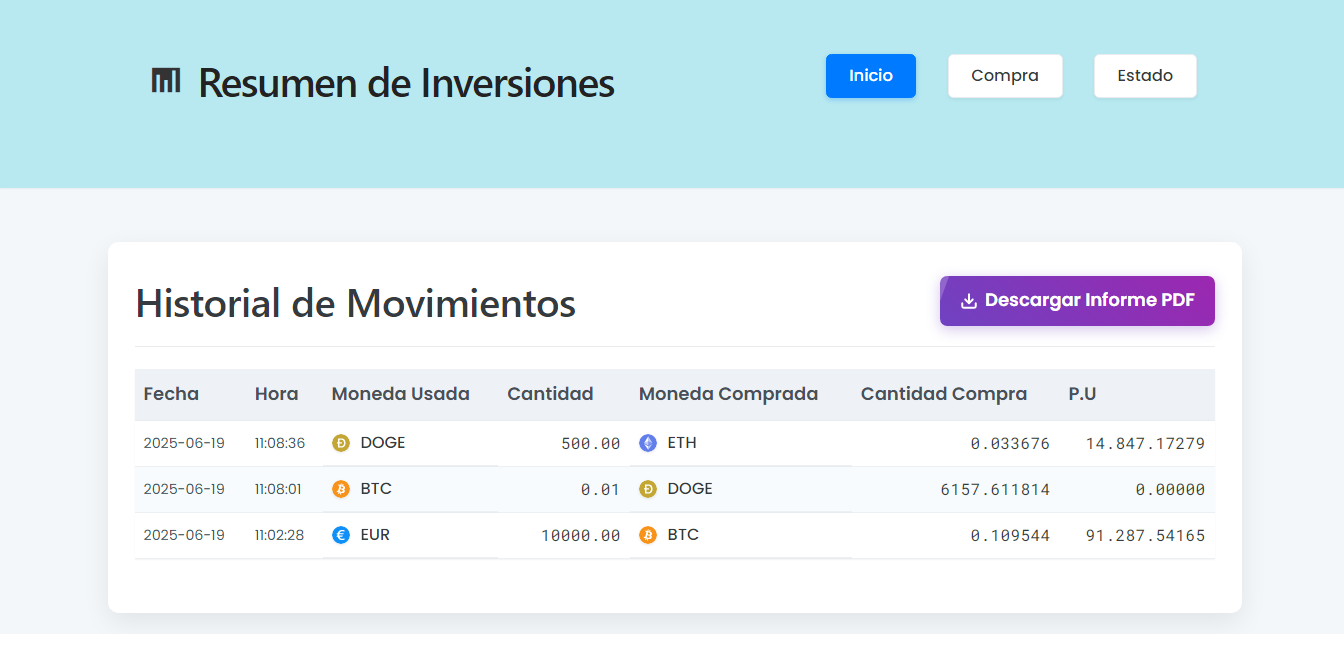
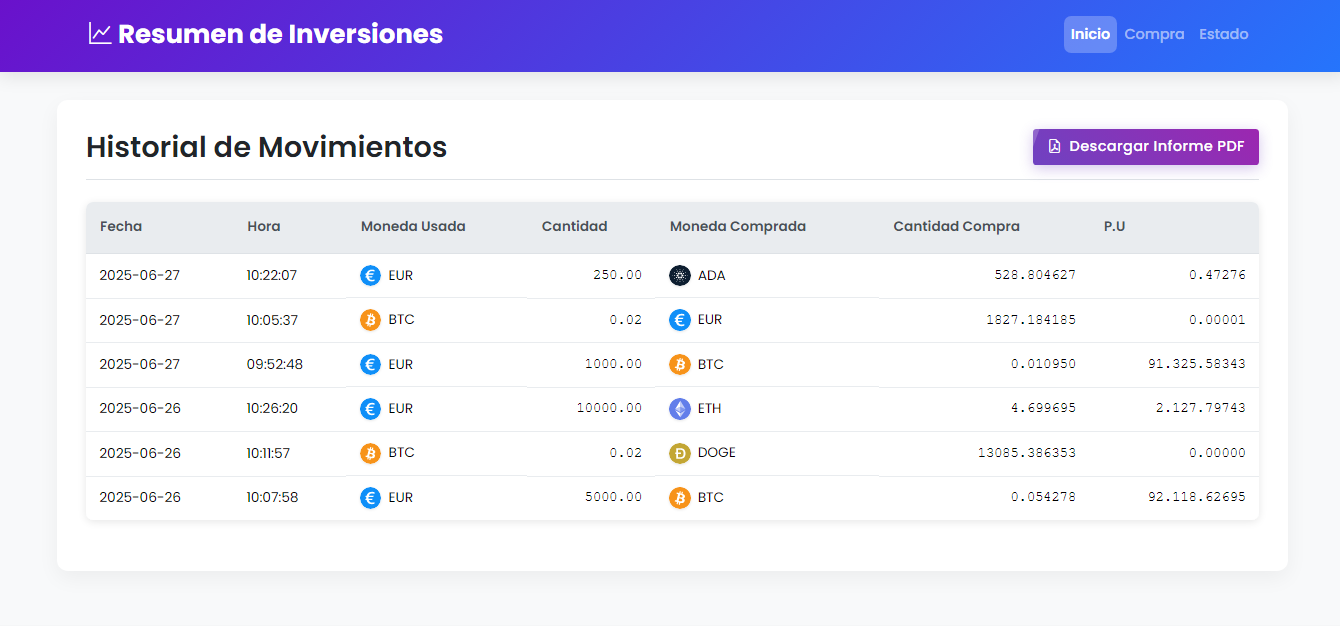
Mejoras visuales

diff --git a/app/templates/status.html b/app/templates/status.html
@@ -6,11 +6,104 @@
         display: grid;
         grid-template-columns: 1fr 1fr;
         gap: 1.5rem;
+        margin-bottom: 2rem;
+    }
+    
+    .chart-container {
+        background: white;
+        border-radius: 8px;
+        box-shadow: 0 2px 4px rgba(0,0,0,0.1);
+        padding: 1rem;
+        display: flex;
+        flex-direction: column;
+        height: 400px; /* Altura fija para mantener consistencia */
+    }
+    
+    .chart-container h3 {
+        margin-top: 0;
+        margin-bottom: 1rem;
+    }
+    
+    .chart-container canvas {
+        width: 100% !important;
+        height: 100% !important;
+        min-height: 300px;
+        flex-grow: 1;
     }
     
     @media (max-width: 768px) {
         .chart-grid {
             grid-template-columns: 1fr;
+        }
+        
+        .chart-container {
+            height: 350px; /* Altura menor en móviles */
+        }
+    }
+
+    .crypto-table {
+        width: 100%;
+        border-collapse: collapse;
+        margin: 1rem 0;
+        font-size: 0.9rem;
+        box-shadow: 0 2px 4px rgba(0,0,0,0.05);
+    }
+    
+    .crypto-table th {
+        background-color: #f8f9fa;
+        padding: 12px 15px;
+        font-weight: 600;
+        text-transform: uppercase;
+        font-size: 0.8rem;
+        letter-spacing: 0.5px;
+        color: #6c757d;
+    }
+    
+    .crypto-table td {
+        padding: 12px 15px;
+        border-bottom: 1px solid #e9ecef;
+        vertical-align: middle;
+    }
+    
+    .crypto-table tr:last-child td {
+        border-bottom: none;
+    }
+    
+    .crypto-table tr:hover {
+        background-color: #f8f9fa;
+    }
+    
+    .crypto-name {
+        display: flex;
+        align-items: center;
+        gap: 10px;
+    }
+    
+    .crypto-icon {
+        width: 24px;
+        height: 24px;
+    }
+    
+    .text-left {
+        text-align: left;
+    }
+    
+    .text-right {
+        text-align: right;
+    }
+    
+    .table-responsive {
+        overflow-x: auto;
+    }
+    
+    @media (max-width: 768px) {
+        .crypto-table {
+            font-size: 0.8rem;
+        }
+        
+        .crypto-table th, 
+        .crypto-table td {
+            padding: 8px 10px;
         }
     }
 </style>
@@ -74,30 +167,57 @@
     </div>
 
     <!-- Sección de detalle de criptomonedas -->
-    <h3 class="section-title">Detalle de Criptomonedas:</h3>
-    <div class="crypto-detail-list">
-        {% for m, info in cripto_valores.items() %}
-            <div class="crypto-item">
-                <div class="crypto-name">
+<h3 class="section-title">Detalle de Criptomonedas</h3>
+<div class="table-responsive">
+    <table class="crypto-table">
+        <thead>
+            <tr>
+                <th class="text-left">Criptomoneda</th>
+                <th class="text-right">Cantidad</th>
+                <th class="text-right">Precio Unitario</th>
+                <th class="text-right">Valor Total</th>
+            </tr>
+        </thead>
+        <tbody>
+            {% for m, info in cripto_valores.items() %}
+            <tr>
+                <td class="text-left crypto-name">
                     {% if m|lower in icon_map %}
-                        <img src="{{ icon_base }}{{ icon_map[m|lower] }}" alt="{{ m }} icon" class="crypto-icon">
+                    <img src="{{ icon_base }}{{ icon_map[m|lower] }}" alt="{{ m }} icon" class="crypto-icon">
                     {% endif %}
                     {{ m }}
-                </div>
-                <div class="crypto-stats">
-                    <span class="crypto-balance">{{ '{:,.6f}'.format(info.saldo) | replace(',', '_') | replace('.', ',') | replace('_', '.') }}</span>
-                    <span class="text-muted">unidades</span>
-                    <span class="crypto-price">@ {{ '{:,.2f}'.format(info.tasa) | replace(',', '_') | replace('.', ',') | replace('_', '.') }} EUR</span>
-                    <span class="crypto-total">{{ '{:,.2f}'.format(info.euros) | replace(',', '_') | replace('.', ',') | replace('_', '.') }} EUR</span>
-                </div>
-            </div>
-        {% endfor %}
-    </div>
+                </td>
+                <td class="text-right">{{ '{:,.6f}'.format(info.saldo) | replace(',', '_') | replace('.', ',') | replace('_', '.') }}</td>
+                <td class="text-right">{{ '{:,.2f}'.format(info.tasa) | replace(',', '_') | replace('.', ',') | replace('_', '.') }} EUR</td>
+                <td class="text-right">{{ '{:,.2f}'.format(info.euros) | replace(',', '_') | replace('.', ',') | replace('_', '.') }} EUR</td>
+            </tr>
+            {% endfor %}
+        </tbody>
+    </table>
+</div>
 </section>
 
 <!-- Chart.js -->
 <script src="https://cdn.jsdelivr.net/npm/chart.js"></script>
 <script>
+    // Configuración común para ambos gráficos
+    const commonChartOptions = {
+        responsive: true,
+        maintainAspectRatio: false,
+        plugins: {
+            legend: {
+                position: 'top',
+            },
+            tooltip: {
+                callbacks: {
+                    label: function(context) {
+                        return `${context.dataset.label}: ${context.raw.toFixed(2)} EUR`;
+                    }
+                }
+            }
+        }
+    };
+
     // Gráfico de evolución
     const evolutionCtx = document.getElementById('evolutionChart');
     if (evolutionCtx) {
@@ -116,20 +236,7 @@
                 }]
             },
             options: {
-                responsive: true,
-                maintainAspectRatio: false,
-                plugins: {
-                    legend: {
-                        position: 'top',
-                    },
-                    tooltip: {
-                        callbacks: {
-                            label: function(context) {
-                                return `${context.dataset.label}: ${context.raw.toFixed(2)} EUR`;
-                            }
-                        }
-                    }
-                },
+                ...commonChartOptions,
                 scales: {
                     y: {
                         beginAtZero: false,
@@ -161,8 +268,7 @@
                 }]
             },
             options: {
-                responsive: true,
-                maintainAspectRatio: false,
+                ...commonChartOptions,
                 plugins: {
                     legend: {
                         position: 'right',
@@ -176,7 +282,8 @@
                             }
                         }
                     }
-                }
+                },
+                cutout: '60%' // Hace el donut más delgado para mejor visualización
             }
         });
     }

diff --git a/app/templates/index.html b/app/templates/index.html
@@ -1,10 +1,128 @@
 {% extends "base.html" %}
 
+{% block page_styles %}
+<style>
+    /* Estilos para la tabla */
+    .table-responsive {
+        overflow-x: auto;
+        margin: 1.5rem 0;
+        border-radius: 8px;
+        box-shadow: 0 2px 10px rgba(0, 0, 0, 0.1);
+    }
+    
+    .table {
+        width: 100%;
+        border-collapse: collapse;
+        font-size: 0.95rem;
+    }
+    
+    .table th {
+        background-color: #f8f9fa;
+        padding: 12px 15px;
+        text-align: left;
+        font-weight: 600;
+        color: #495057;
+        border-bottom: 2px solid #dee2e6;
+        white-space: nowrap;
+    }
+    
+    .table td {
+        padding: 12px 15px;
+        border-bottom: 1px solid #e9ecef;
+        vertical-align: middle;
+    }
+    
+    .table tr:last-child td {
+        border-bottom: none;
+    }
+    
+    .table tr:hover {
+        background-color: #f8f9fa;
+    }
+    
+    /* Estilos para celdas específicas */
+    .currency-cell {
+        display: flex;
+        align-items: center;
+        gap: 8px;
+        min-width: 120px;
+    }
+    
+    .numeric-value {
+        font-family: 'Courier New', monospace;
+        text-align: right;
+        white-space: nowrap;
+    }
+    
+    .crypto-icon {
+        width: 24px;
+        height: 24px;
+    }
+    
+    /* Estilos para el estado vacío */
+    .empty-state-card {
+        text-align: center;
+        padding: 2rem;
+        background: white;
+        border-radius: 8px;
+        box-shadow: 0 2px 10px rgba(0, 0, 0, 0.1);
+        margin: 2rem 0;
+    }
+    
+    .empty-state-message {
+        color: #6c757d;
+        margin-bottom: 1.5rem;
+        font-size: 1.1rem;
+    }
+    
+    /* Estilos para el botón de descarga */
+    .btn-download-pdf {
+        display: inline-flex;
+        align-items: center;
+        gap: 8px;
+        background-color: #dc3545;
+        color: white;
+        padding: 0.5rem 1rem;
+        border-radius: 4px;
+        text-decoration: none;
+        font-weight: 500;
+        transition: background-color 0.2s;
+    }
+    
+    .btn-download-pdf:hover {
+        background-color: #bb2d3b;
+        color: white;
+    }
+    
+    /* Cabecera de la sección */
+    .card-header-section {
+        display: flex;
+        justify-content: space-between;
+        align-items: center;
+        margin-bottom: 1.5rem;
+    }
+    
+    @media (max-width: 768px) {
+        .table th, 
+        .table td {
+            padding: 8px 10px;
+            font-size: 0.85rem;
+        }
+        
+        .card-header-section {
+            flex-direction: column;
+            align-items: flex-start;
+            gap: 1rem;
+        }
+    }
+</style>
+{% endblock %}
+
 {% block section %}
 {% set icon_base = "https://cdn.jsdelivr.net/npm/cryptocurrency-icons@0.17.1/svg/color/" %}
 {% set icon_map = {
     'btc': 'btc.svg', 'eth': 'eth.svg', 'usdt': 'usdt.svg', 'bnb': 'bnb.svg',
-    'ada': 'ada.svg', 'xrp': 'xrp.svg', 'xrp': 'xrp.svg', 'sol': 'sol.svg', 'dot': 'dot.svg',
+    'ada': 'ada.svg', 'xrp': 'xrp.svg', 'sol': 'sol.svg', 'dot': 'dot.svg',
     'ltc': 'ltc.svg', 'doge': 'doge.svg', 'eur': 'eur.svg', 'usd': 'usd.svg'
 } %}
 
@@ -25,10 +143,10 @@
                     <th>Fecha</th>
                     <th>Hora</th>
                     <th>Moneda Usada</th>
-                    <th>Cantidad</th>
+                    <th class="text-right">Cantidad</th>
                     <th>Moneda Comprada</th>
-                    <th>Cantidad Compra</th>
-                    <th>P.U</th>
+                    <th class="text-right">Cantidad Compra</th>
+                    <th class="text-right">P.U</th>
                 </tr>
             </thead>
             <tbody>
